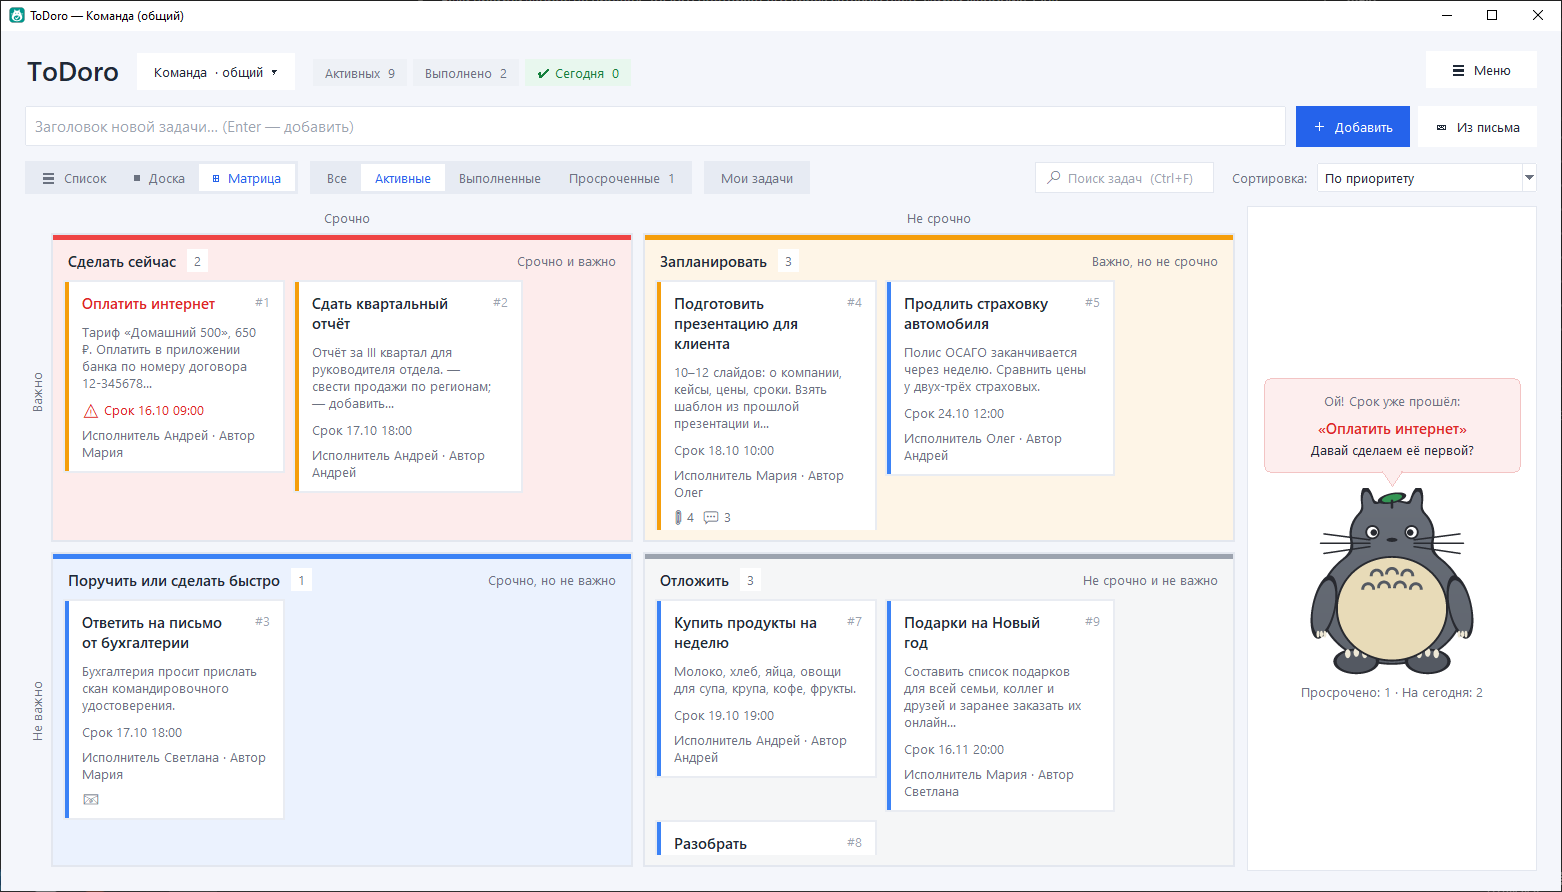
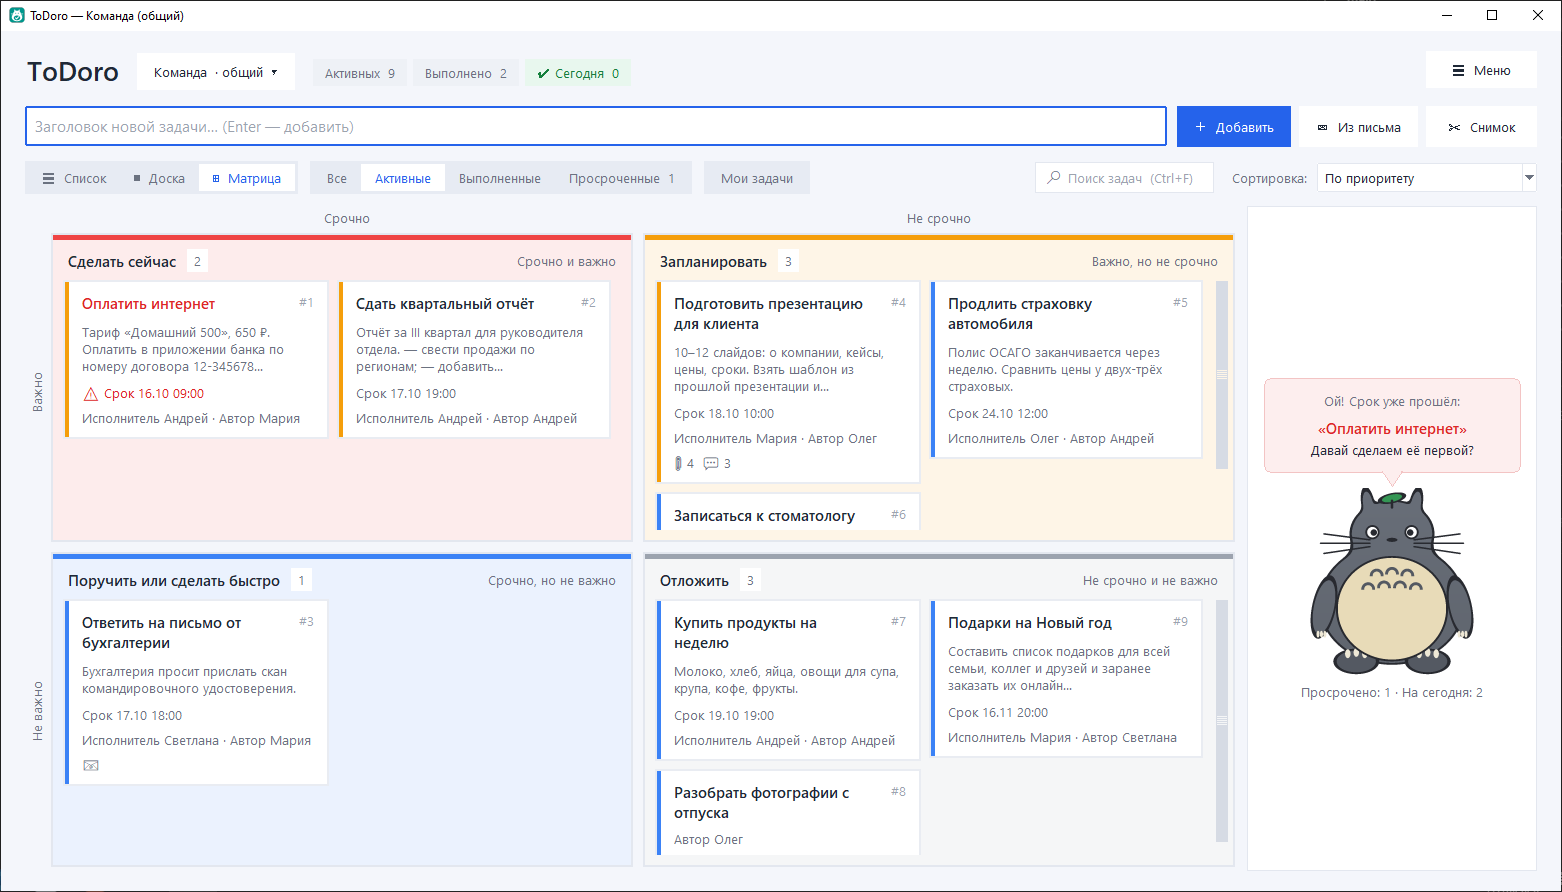
Матрица на небольшом экране: полоса прокрутки в четверти, карточки во всю ширину, высота строк по числу задач

diff --git a/todoro.py b/todoro.py
@@ -3876,14 +3876,14 @@ class EisenhowerMatrix(KanbanBoard):
 
         self.columnconfigure(1, weight=1, uniform="q")
         self.columnconfigure(2, weight=1, uniform="q")
-        self.rowconfigure(1, weight=1, uniform="q")
-        self.rowconfigure(2, weight=1, uniform="q")
+        self.rowconfigure(1, weight=1, minsize=self.MIN_ROW)  # высоту строк задаёт render
+        self.rowconfigure(2, weight=1, minsize=self.MIN_ROW)
         # подписи осей: сверху «Срочно / Не срочно», слева (повёрнуто) «Важно / Не важно»
         for column, text in ((1, "Срочно"), (2, "Не срочно")):
             tk.Label(self, text=text, bg=BG, fg=MUTED, font=FONT_SMALL).grid(
                 row=0, column=column, pady=(0, 4))
         for row, text in ((1, "Важно"), (2, "Не важно")):
-            side = tk.Canvas(self, bg=BG, width=22, highlightthickness=0)
+            side = tk.Canvas(self, bg=BG, width=22, height=1, highlightthickness=0)  # высоту задаёт строка
             side.grid(row=row, column=0, sticky="ns", padx=(0, 4))
             label = side.create_text(11, 0, text=text, angle=90, fill=MUTED, font=FONT_SMALL)
             side.bind("<Configure>", lambda e, c=side, i=label: c.coords(i, 11, e.height / 2))
@@ -3900,6 +3900,7 @@ class EisenhowerMatrix(KanbanBoard):
 
     CARD = LANE_WIDTH - 20  # ширина карточки — как на доске
     GAP = 8                 # промежуток между карточками
+    MIN_ROW = 140           # высота строки четвертей, даже если в ней нет задач
 
     def resized(self, event):
         # карточки стоят сеткой: если в четверть теперь помещается другое число колонок,
@@ -3908,13 +3909,26 @@ class EisenhowerMatrix(KanbanBoard):
             if self.redraw_job:
                 self.after_cancel(self.redraw_job)
             self.redraw_job = self.after(150, lambda: self.render(*self.shown))
+        elif self.shown and self.card_size() + 20 != self.card_width:  # та же сетка, другая ширина
+            if self.redraw_job:
+                self.after_cancel(self.redraw_job)
+            self.redraw_job = self.after(150, lambda: self.render(*self.shown))
+
+    def inside_width(self):
+        """Ширина четверти, которую могут занять карточки."""
+        width = self.winfo_width()
+        quadrant = (width - 36) // 2 if width > 100 else 500
+        return quadrant - 30  # рамка, отступы и место под полосу прокрутки
 
     def columns(self):
         """Сколько карточек помещается в ряд в одной четверти."""
-        width = self.winfo_width()
-        quadrant = (width - 36) // 2 if width > 100 else 500
-        inside = quadrant - 22  # рамка, отступы и место под прокрутку
-        return max(1, (inside + self.GAP) // (self.CARD + self.GAP))
+        return max(1, (self.inside_width() + self.GAP) // (self.CARD + self.GAP))
+
+    def card_size(self):
+        """Ширина карточки: карточки растягиваются на всю ширину четверти, чтобы справа не
+        пустовало место (на небольшом экране — одна широкая колонка вместо узкой)."""
+        columns = self.drawn_columns
+        return max(self.CARD, (self.inside_width() - self.GAP * (columns - 1)) // columns)
 
     def level(self, task_id, urgent, important):
         """Четверть задачи: просроченная считается срочной."""
@@ -3925,10 +3939,16 @@ class EisenhowerMatrix(KanbanBoard):
         self.redraw_job = None
         self.shown = (statuses, rows, overdue_ids)
         self.drawn_columns = self.columns()
+        self.card_width = self.card_size() + 20  # переносы текста — по настоящей ширине карточки
         colors = {sid: color for sid, _, color, _ in statuses}
         by_level = {}
         for row in rows:
             by_level.setdefault(self.level(row[0], row[6], row[7]), []).append(row)
+        # Высота строк — по числу рядов карточек: где задач больше, там больше места
+        # (на небольшом экране пустые четверти не отнимают его у заполненных)
+        for grid_row, levels in ((1, (1, 2)), (2, (3, 4))):
+            card_rows = max(-(-len(by_level.get(level, [])) // self.drawn_columns) for level in levels)
+            self.rowconfigure(grid_row, weight=max(1, card_rows))
         self.lanes, self.cards = [], {}
         for level, _, _, name, hint, color in self.QUADRANTS:
             self.make_quadrant(level, name, hint, color, by_level.get(level, []), colors, overdue_ids)
@@ -3952,15 +3972,20 @@ class EisenhowerMatrix(KanbanBoard):
             side="left", padx=(8, 0))
         tk.Label(head, text=hint, bg=bg, fg=MUTED, font=FONT_SMALL).pack(side="right")
 
-        # карточки — сеткой в прокручиваемой области; цветная полоска карточки — цвет её статуса
+        # карточки — сеткой в прокручиваемой области; цветная полоска карточки — цвет её статуса.
+        # Не поместились (маленький экран) — справа появляется полоса прокрутки.
+        bar_style = f"Quadrant{level}.Vertical.TScrollbar"
+        ttk.Style().configure(bar_style, troughcolor=bg, bordercolor=bg)
         area = tk.Canvas(box, bg=bg, highlightthickness=0)
+        bar = ttk.Scrollbar(box, orient="vertical", command=area.yview, style=bar_style)
+        area.configure(yscrollcommand=lambda first, last: self.update_bar(bar, area, first, last))
         area.pack(fill="both", expand=True, padx=(10, 6), pady=(0, 10))
         cards = tk.Frame(area, bg=bg)
         area.create_window(0, 0, window=cards, anchor="nw")
         cards.bind("<Configure>", lambda e: area.configure(scrollregion=area.bbox("all")))
         columns = self.drawn_columns
         for column in range(columns):
-            cards.columnconfigure(column, minsize=self.CARD, uniform="card")
+            cards.columnconfigure(column, minsize=self.card_width - 20, uniform="card")
         for index, row in enumerate(rows):
             cell = tk.Frame(cards, bg=bg)
             cell.grid(row=index // columns, column=index % columns, sticky="nsew",
@@ -3976,6 +4001,18 @@ class EisenhowerMatrix(KanbanBoard):
                   lambda e: area.yview_scroll(-1 if e.delta > 0 else 1, "units")
                   if area.bbox("all") and area.bbox("all")[3] > area.winfo_height() else None)
         self.lanes.append((level, box, bg))
+
+    @staticmethod
+    def update_bar(bar, area, first, last):
+        """Полоса прокрутки четверти — только когда карточки в неё не помещаются."""
+        needed = not (float(first) <= 0 and float(last) >= 1)
+        if needed and not bar.winfo_ismapped():
+            bar.pack(side="right", fill="y", padx=(0, 4), pady=(0, 10), before=area)
+            area.pack_configure(padx=(10, 2))
+        elif not needed and bar.winfo_ismapped():
+            bar.pack_forget()
+            area.pack_configure(padx=(10, 6))
+        bar.set(first, last)
 
     def on_release(self, event):
         drag, self.drag = self.drag, None

diff --git a/help_text.py b/help_text.py
@@ -250,7 +250,11 @@ HELP = [
            "или «Поручить или сделать быстро»), пока срок не перенесут или задачу не выполнят."),
     ("li", "Фильтры, поиск и «Мои задачи» работают и здесь: например, фильтр **Активные** "
            "оставит только невыполненные задачи."),
-    ("li", "Колёсико прокручивает задачи в той части, над которой мышь."),
+    ("li", "Не все карточки поместились (например, на небольшом экране ноутбука) — справа в этой "
+           "части появится полоса прокрутки. Прокрутите задачи колёсиком (над нужной частью) или "
+           "перетащите полосу. Число в заголовке части — сколько в ней задач."),
+    ("li", "Часть, где задач больше, становится выше, а пустые части — ниже, чтобы карточкам "
+           "хватало места."),
 
     ("h2", "Поиск задач"),
     ("li", "Поле **Поиск задач** справа над задачами (или [Ctrl+F]): напишите слово — останутся "

diff --git a/RELEASE_NOTES.md b/RELEASE_NOTES.md
@@ -13,6 +13,12 @@
 - Кнопка «✂ Снимок» на вкладке «Файлы» карточки задачи — приложить снимок области экрана к уже
   существующей задаче.
 
+### Улучшения
+
+- **Матрица на небольшом экране.** Если карточки не помещаются в часть матрицы, справа появляется
+  полоса прокрутки. Карточки растягиваются на всю ширину части, а часть, где задач больше,
+  становится выше пустых.
+
 ## 2.9 — 17.10.2026
 
 ### Исправления
